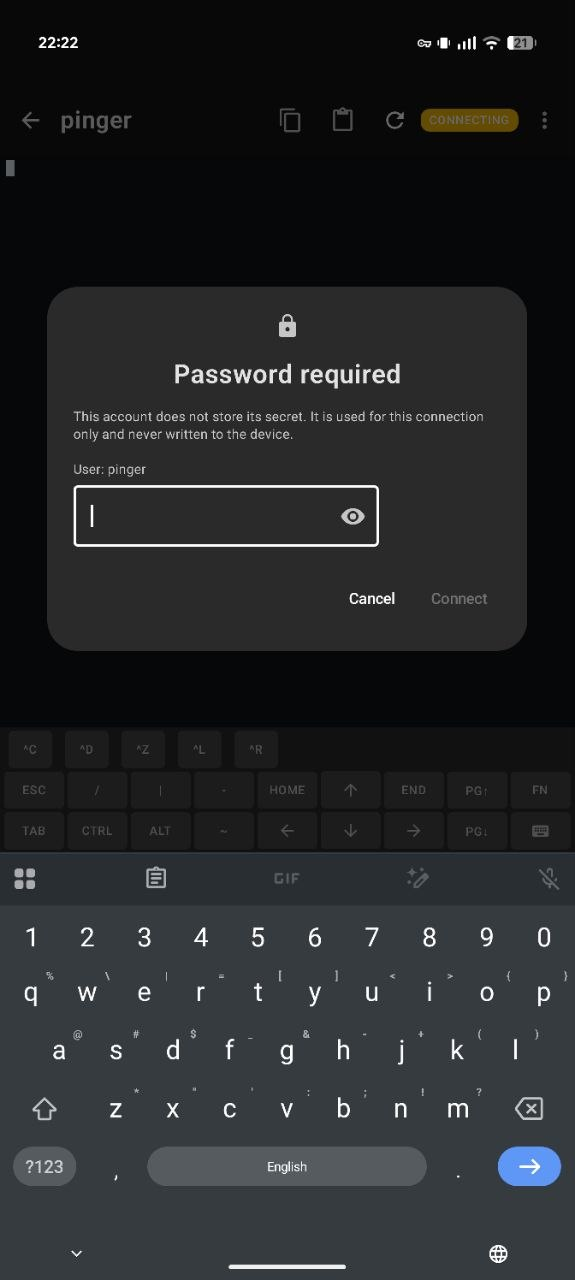
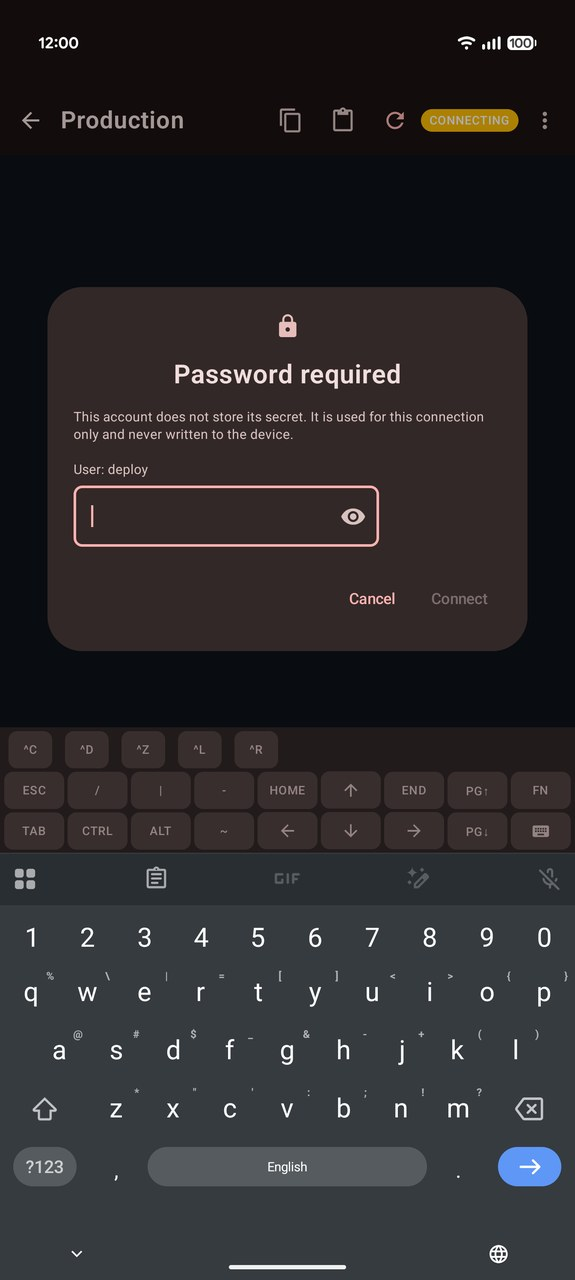
docs: refresh README screenshots with the new interface
- Retake the screenshots with the Material 3 design, using demo data
- Add the icon picker, accounts list and appearance (list style preview)

diff --git a/README.md b/README.md
@@ -16,13 +16,17 @@ KnotSSH keeps everything on the device. There is no account to create, no backen
 
 ## Screenshots
 
-| Your servers                                                                  | Add a server                                                                     | Reusable accounts                                                                  | Port forwarding                                                                            |
-| ----------------------------------------------------------------------------- | -------------------------------------------------------------------------------- | ---------------------------------------------------------------------------------- | ------------------------------------------------------------------------------------------ |
-| <img src="docs/screenshots/01-server-list.jpg" width="200" alt="Server list"> | <img src="docs/screenshots/02-new-server.jpg" width="200" alt="New server form"> | <img src="docs/screenshots/03-new-account.jpg" width="200" alt="New account form"> | <img src="docs/screenshots/04-port-forwarding.jpg" width="200" alt="Port forwarding rule"> |
+| Your servers                                                                  | Add a server                                                                     | Pick an icon                                                                  | Reusable accounts                                                                  |
+| ----------------------------------------------------------------------------- | -------------------------------------------------------------------------------- | ----------------------------------------------------------------------------- | ---------------------------------------------------------------------------------- |
+| <img src="docs/screenshots/01-server-list.jpg" width="200" alt="Server list"> | <img src="docs/screenshots/02-new-server.jpg" width="200" alt="New server form"> | <img src="docs/screenshots/08-icon-picker.jpg" width="200" alt="Server icon picker"> | <img src="docs/screenshots/09-accounts.jpg" width="200" alt="Accounts list"> |
 
-| Connect                                                                                           | Sessions keep running                                                                                        | Security options                                                                 |
-| ------------------------------------------------------------------------------------------------- | ------------------------------------------------------------------------------------------------------------ | -------------------------------------------------------------------------------- |
-| <img src="docs/screenshots/05-connect-password.jpg" width="200" alt="Password prompt on connect"> | <img src="docs/screenshots/06-background-sessions.jpg" width="200" alt="Notification with running sessions"> | <img src="docs/screenshots/07-security.jpg" width="200" alt="Security settings"> |
+| New account                                                                        | Port forwarding                                                                            | Connect                                                                                           | Sessions keep running                                                                                        |
+| ---------------------------------------------------------------------------------- | ------------------------------------------------------------------------------------------ | ------------------------------------------------------------------------------------------------- | ------------------------------------------------------------------------------------------------------------ |
+| <img src="docs/screenshots/03-new-account.jpg" width="200" alt="New account form"> | <img src="docs/screenshots/04-port-forwarding.jpg" width="200" alt="Port forwarding rule"> | <img src="docs/screenshots/05-connect-password.jpg" width="200" alt="Password prompt on connect"> | <img src="docs/screenshots/06-background-sessions.jpg" width="200" alt="Notification with running sessions"> |
+
+| Appearance and list style                                                           | Security options                                                                 |
+| ----------------------------------------------------------------------------------- | -------------------------------------------------------------------------------- |
+| <img src="docs/screenshots/10-appearance.jpg" width="200" alt="Appearance settings with list preview"> | <img src="docs/screenshots/07-security.jpg" width="200" alt="Security settings"> |
 
 ## Features
 
